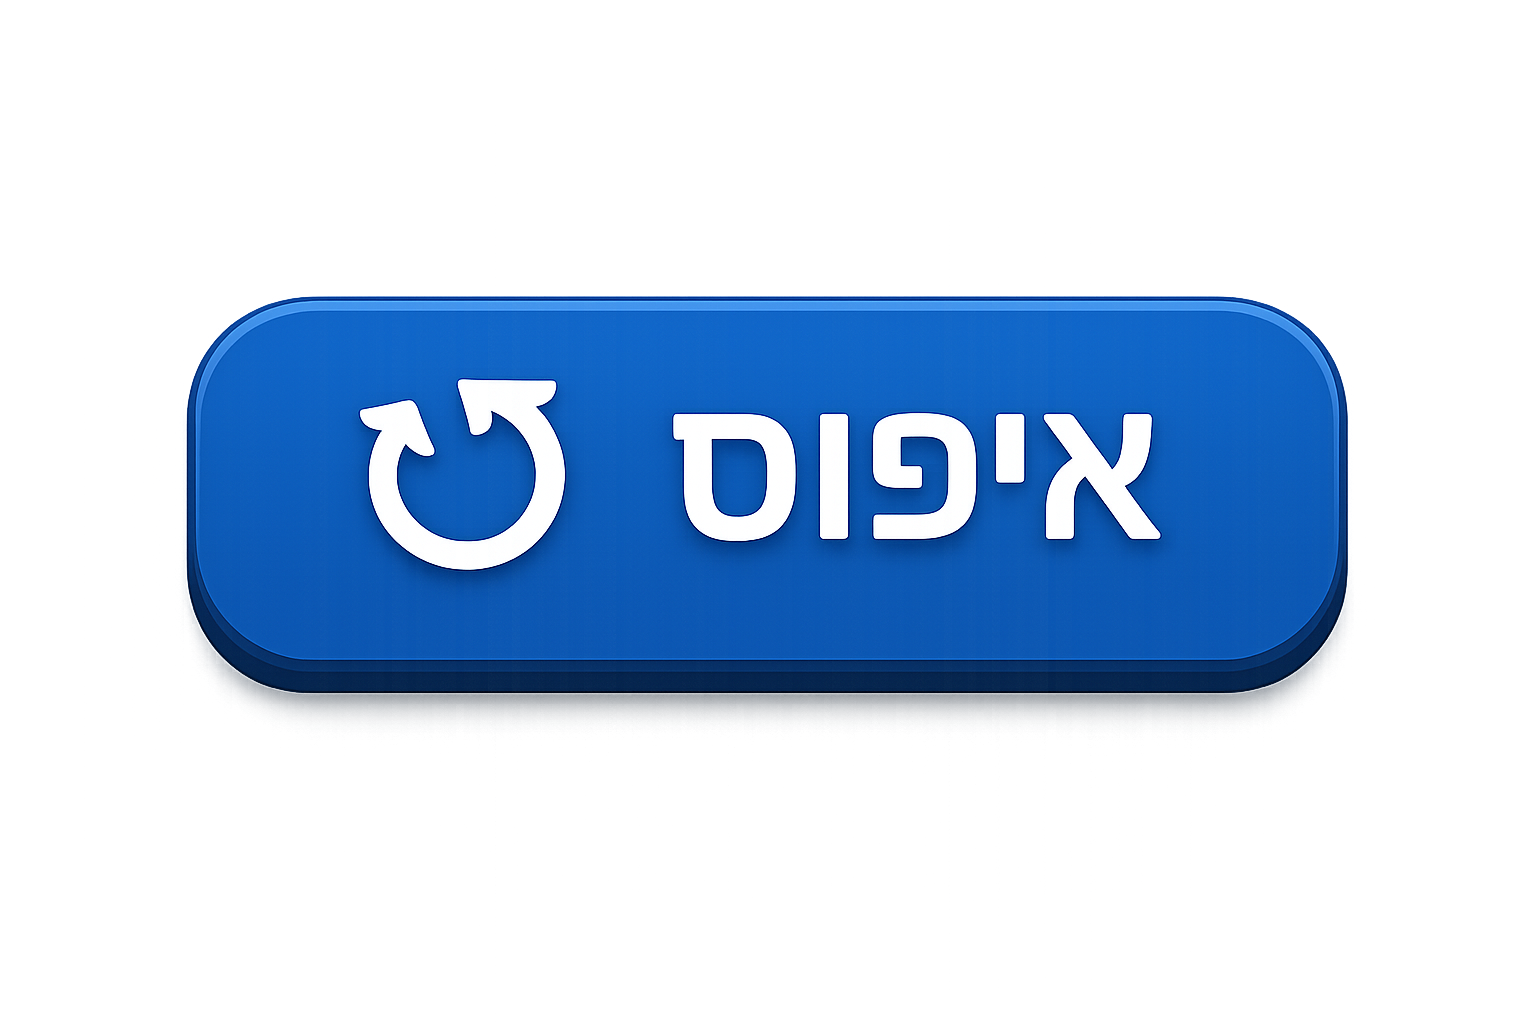
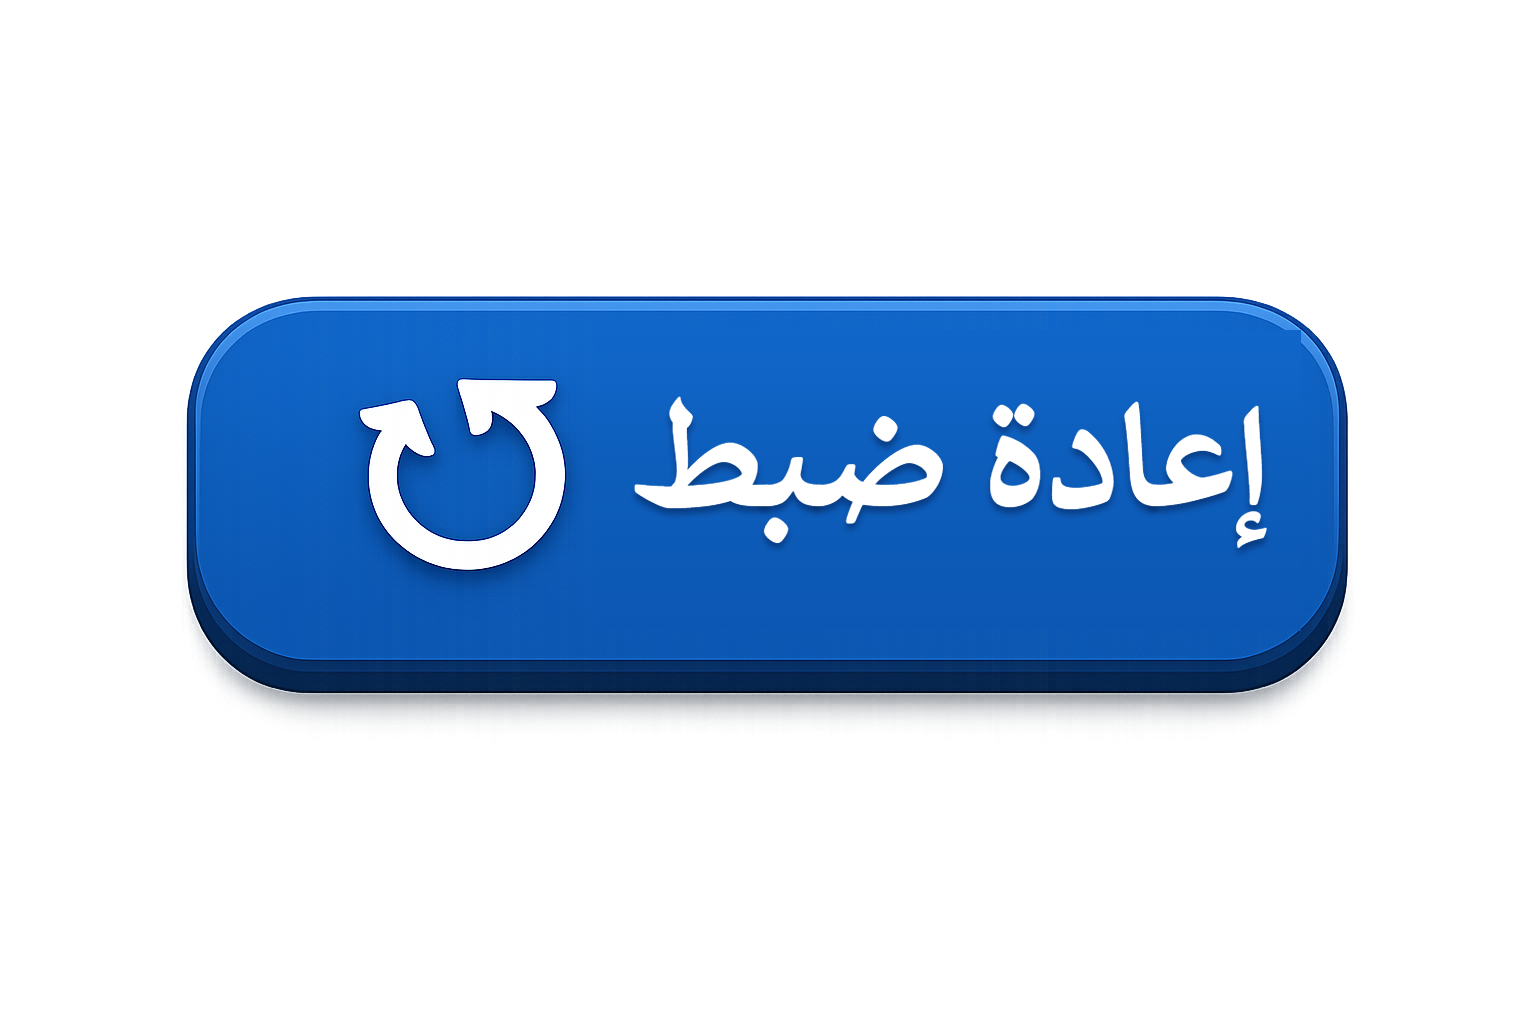
fix(02-05): plane simulation works by touch; s2 says drag to the plane (MOE 06.10)
MOE monday 06.10: "המשקל של הפריטים על המטוס לא עובד, לא ניתן לאפס ולא ניתן לשקול".
Reproduced with real touch events on an emulated iPad: the browser claimed the
gesture for scrolling and fired pointercancel after the first move, so no card
ever reached the plane and the total stayed at 41 (mouse worked).

- .card[data-item] { touch-action: none } so touch drags the card.
- pointercancel ends the drag and sends the card home (it used to hang mid-drag).
- scaleApp() keeps the last scale when the iframe is hidden (0x0 window used to
  set currentScale = 0), re-measures on visibilitychange and on drag start.
- s2 instruction: drag the elements "to the plane", not "to the scale" — only a
  drop on the plane counts (behaviour unchanged by owner decision).
- ?v=20261007 on the 3 sim iframes and on the sim's script/style.

- Reset button: the PNG had Hebrew "איפוס" baked in. Repainted the label area in
  the button's own blue and drew "إعادة ضبط" (Calibri Bold, the sim's Arabic font);
  same size, icon, shadow and transparency. img ?v= added.

New _test/sim-touch.js (puppeteer, real touch): fails on the previous code,
passes now. verify-report 1335/0, statement-flow 74/0 unchanged.

Changed region(s): [[0.4062, 0.375, 0.8438, 0.5625]]

diff --git a/_test/sim-touch.js b/_test/sim-touch.js
@@ -1,0 +1,146 @@
+/* 02-05 plane-mass simulation: drag by touch, inside a screen that starts hidden.
+ *
+ * MOE 06.10 (AR, "המשקל של הפריטים על המטוס לא עובד, לא ניתן לאפס ולא ניתן לשקול"):
+ * on a tablet the browser took the touch for scrolling and cancelled the pointer after
+ * the first move, so no card ever reached the plane. These checks drive real touch
+ * events (CDP Input.dispatchTouchEvent on an emulated iPad), not synthetic pointers.
+ *
+ *   NODE_PATH=/tmp/lomda-test/node_modules node _test/sim-touch.js
+ *
+ * Needs puppeteer-core and a local Chrome (CHROME env var, or the default Windows path).
+ */
+'use strict';
+const fs = require('fs');
+const path = require('path');
+const http = require('http');
+const puppeteer = require('puppeteer-core');
+
+const ROOT = path.resolve(__dirname, '..');
+const COMP = fs.readdirSync(ROOT).find(d => /-02-05$/.test(d));
+const SIM = path.join(ROOT, COMP, 'plane-mass-simulation');
+const CHROME = process.env.CHROME || 'C:/Program Files/Google/Chrome/Application/chrome.exe';
+
+let pass = 0, fail = 0;
+function ok(cond, msg) { if (cond) { pass++; console.log('  ✓ ' + msg); } else { fail++; console.log('  ✗ ' + msg); } }
+
+// ── static checks ──
+const compHtml = fs.readFileSync(path.join(ROOT, COMP, 'index.html'), 'utf8');
+const simHtml = fs.readFileSync(path.join(SIM, 'index.html'), 'utf8');
+const css = fs.readFileSync(path.join(SIM, 'style.css'), 'utf8');
+const AR = /<html[^>]*lang="ar"/.test(simHtml);
+console.log('static (' + (AR ? 'ar' : 'he') + ')');
+ok(!/אל המאזניים|إلى الميزان/.test(compHtml), 's2 instruction no longer says drag "to the scale" (drops count on the plane only)');
+ok(AR ? /سحب العناصر الملائمة إلى الطائرة/.test(compHtml) : /גרירת האלמנטים המתאימים אל המטוס/.test(compHtml), 's2 instruction says drag "to the plane"');
+const iframes = compHtml.match(/<iframe[^>]*plane-mass-simulation[^>]*>/g) || [];
+ok(iframes.length === 3 && iframes.every(s => /index\.html\?v=\d+/.test(s)), 'all 3 sim iframes carry ?v=');
+ok(/script\.js\?v=\d+/.test(simHtml) && /style\.css\?v=\d+/.test(simHtml), 'sim script/style carry ?v=');
+ok(/\.card\[data-item\][^{]*\{[^}]*touch-action:\s*none/.test(css), '.card has touch-action: none');
+if (AR) {
+  // Hebrew "איפוס" was baked into the PNG; the Arabic copy must not be the Hebrew bytes.
+  const HE_MD5 = '61abe55dec3a3d6f32929553b13a71d1';
+  const md5 = require('crypto').createHash('md5').update(fs.readFileSync(path.join(SIM, 'assets/images/restart-button.png'))).digest('hex');
+  ok(md5 !== HE_MD5, 'AR reset button image is not the Hebrew one (' + md5 + ')');
+}
+
+// ── browser checks ──
+const TYPES = { '.html': 'text/html', '.js': 'text/javascript', '.css': 'text/css', '.png': 'image/png', '.ttf': 'font/ttf', '.woff2': 'font/woff2', '.json': 'application/json', '.mp4': 'video/mp4', '.svg': 'image/svg+xml' };
+const server = http.createServer((req, res) => {
+  const u = decodeURIComponent(req.url.split('?')[0]);
+  if (u === '/__host.html') {
+    // the component's pattern: the sim iframe sits in a screen that starts display:none
+    res.writeHead(200, { 'Content-Type': 'text/html' });
+    return res.end(`<!doctype html><body style="margin:0"><div id="scr" style="display:none;width:700px;height:900px">
+      <iframe id="f" src="/${COMP}/plane-mass-simulation/index.html" style="width:100%;height:100%;border:0"></iframe></div></body>`);
+  }
+  const f = path.join(ROOT, u);
+  if (!f.startsWith(ROOT) || !fs.existsSync(f) || fs.statSync(f).isDirectory()) { res.writeHead(404); return res.end(); }
+  res.writeHead(200, { 'Content-Type': TYPES[path.extname(f)] || 'application/octet-stream' });
+  fs.createReadStream(f).pipe(res);
+});
+
+const sleep = ms => new Promise(r => setTimeout(r, ms));
+
+async function touchDrag(page, frame, item, opts = {}) {
+  // geometry in the top page's coordinates (frame offset added when in an iframe)
+  const g = await frame.evaluate(item => {
+    const c = document.querySelector('.card[data-item="' + item + '"]').getBoundingClientRect();
+    const p = document.querySelector('.plane-image').getBoundingClientRect();
+    return { sx: c.left + c.width / 2, sy: c.top + c.height / 2, tx: p.left + p.width / 2, ty: p.top + p.height / 2 };
+  }, item);
+  let ox = 0, oy = 0;
+  if (frame !== page.mainFrame()) {
+    const r = await page.evaluate(() => { const b = document.getElementById('f').getBoundingClientRect(); return { x: b.left, y: b.top }; });
+    ox = r.x; oy = r.y;
+  }
+  const cdp = await page.target().createCDPSession();
+  const t = (type, x, y) => cdp.send('Input.dispatchTouchEvent', { type, touchPoints: type === 'touchEnd' || type === 'touchCancel' ? [] : [{ x: x + ox, y: y + oy }] });
+  await t('touchStart', g.sx, g.sy);
+  const steps = 12;
+  for (let i = 1; i <= steps; i++) {
+    await t('touchMove', g.sx + (g.tx - g.sx) * i / steps, g.sy + (g.ty - g.sy) * i / steps);
+    await sleep(25);
+  }
+  await t(opts.cancel ? 'touchCancel' : 'touchEnd', g.tx, g.ty);
+  await sleep(500);
+  await cdp.detach();
+}
+
+const read = frame => frame.evaluate(() => ({
+  state: Object.assign({}, state),
+  weight: document.getElementById('weight-value').textContent.trim(),
+  scale: currentScale,
+  styles: [...document.querySelectorAll('.card[data-item]')].map(c => c.style.transform || ''),
+}));
+
+(async () => {
+  await new Promise(r => server.listen(0, '127.0.0.1', r));
+  const base = 'http://127.0.0.1:' + server.address().port;
+  const browser = await puppeteer.launch({ executablePath: CHROME, headless: 'new' });
+  const IPAD = { viewport: { width: 820, height: 1180, deviceScaleFactor: 2, isMobile: true, hasTouch: true },
+    userAgent: 'Mozilla/5.0 (iPad; CPU OS 17_0 like Mac OS X) AppleWebKit/605.1.15 (KHTML, like Gecko) Version/17.0 Mobile/15E148 Safari/604.1' };
+  try {
+    console.log('touch, standalone sim (emulated iPad)');
+    let page = await browser.newPage();
+    await page.emulate(IPAD);
+    await page.goto(base + '/' + COMP + '/plane-mass-simulation/index.html', { waitUntil: 'networkidle0' });
+    let f = page.mainFrame();
+    await touchDrag(page, f, 'luggage');
+    let s = await read(f);
+    ok(s.state.luggage === true && /^47\b/.test(s.weight), 'touch drag of luggage onto the plane loads it (41 -> 47): ' + s.weight);
+    await touchDrag(page, f, 'passengers');
+    s = await read(f);
+    ok(s.state.passengers === true && /^59\b/.test(s.weight), 'second touch drag (passengers) adds up (-> 59): ' + s.weight);
+    await f.evaluate(() => document.getElementById('reset-btn').click());
+    s = await read(f);
+    ok(!s.state.luggage && !s.state.passengers && /^41\b/.test(s.weight), 'reset empties the plane (-> 41)');
+    await touchDrag(page, f, 'fuel', { cancel: true });
+    s = await read(f);
+    ok(!s.state.fuel && /^41\b/.test(s.weight), 'a cancelled touch loads nothing');
+    ok(s.styles.every(t => t === '' || /translate\(0(px)?, 0(px)?\)/.test(t)), 'a cancelled touch sends the card back to its slot');
+    await touchDrag(page, f, 'fuel');
+    s = await read(f);
+    ok(s.state.fuel === true && /^61\b/.test(s.weight), 'after a cancel the same card still drags (fuel -> 61): ' + s.weight);
+    await page.close();
+
+    console.log('touch, sim in a screen that starts hidden (the component\'s layout)');
+    page = await browser.newPage();
+    await page.emulate(IPAD);
+    await page.goto(base + '/__host.html', { waitUntil: 'networkidle0' });
+    f = page.frames().find(x => /plane-mass-simulation/.test(x.url()));
+    s = await read(f);
+    ok(s.scale > 0, 'while hidden the scale never collapses to 0 (' + s.scale + ')');
+    await page.evaluate(() => { document.getElementById('scr').style.display = 'block'; });
+    await sleep(400);
+    s = await read(f);
+    ok(s.scale > 0.5 && s.scale < 2, 'shown: the sim re-measures (' + s.scale.toFixed(3) + ')');
+    await touchDrag(page, f, 'luggage');
+    s = await read(f);
+    ok(s.state.luggage === true && /^47\b/.test(s.weight), 'shown: touch drag loads luggage (-> 47): ' + s.weight);
+    await page.close();
+  } finally {
+    await browser.close();
+    server.close();
+  }
+  console.log(`\n=== sim touch: ${pass} passed, ${fail} failed ===`);
+  process.exit(fail ? 1 : 0);
+})().catch(e => { console.error(e); server.close(); process.exit(2); });

diff --git a/methodica-ar-science-mass-measure-02-05/plane-mass-simulation/script.js b/methodica-ar-science-mass-measure-02-05/plane-mass-simulation/script.js
@@ -152,16 +152,38 @@ function returnCardToSlot(card) {
 function makeCardDraggable(card) {
   let originX = 0, originY = 0;
 
+  let dragging = false;
+
   function onPointerDown(e) {
+    if (dragging) return;
     e.preventDefault();
+    /* The iframe may have been hidden (0×0) when it last scaled; measure now
+       so the drag below divides by the real scale. */
+    scaleApp();
+    dragging = true;
     card.setPointerCapture(e.pointerId);
     originX = e.clientX;
     originY = e.clientY;
     card.style.transition = 'none';
     card.style.zIndex     = '1000';
     card.style.position   = 'relative';
-    card.addEventListener('pointermove', onPointerMove);
-    card.addEventListener('pointerup',   onPointerUp);
+    card.addEventListener('pointermove',   onPointerMove);
+    card.addEventListener('pointerup',     onPointerUp);
+    card.addEventListener('pointercancel', onPointerCancel);
+  }
+
+  function endDrag() {
+    dragging = false;
+    card.removeEventListener('pointermove',   onPointerMove);
+    card.removeEventListener('pointerup',     onPointerUp);
+    card.removeEventListener('pointercancel', onPointerCancel);
+  }
+
+  /* The browser took the touch over (scroll/zoom gesture, system UI):
+     no drop, the card just goes home. Without this it stayed mid-drag. */
+  function onPointerCancel() {
+    endDrag();
+    returnCardToSlot(card);
   }
 
   function onPointerMove(e) {
@@ -174,8 +196,7 @@ function makeCardDraggable(card) {
   }
 
   function onPointerUp(e) {
-    card.removeEventListener('pointermove', onPointerMove);
-    card.removeEventListener('pointerup',   onPointerUp);
+    endDrag();
 
     if (isDroppedOnPlane(e.clientX, e.clientY)) {
       const itemName = card.dataset.item;
@@ -222,6 +243,9 @@ function getDesignHeight() {
 function scaleApp() {
   const sim = document.querySelector('.simulation');
   if (!sim) return;
+  /* A hidden iframe (display:none screen) reports a 0×0 window: keep the last
+     scale rather than collapsing to 0 — the resize on show re-measures. */
+  if (!window.innerWidth || !window.innerHeight) return;
   const designHeight = getDesignHeight();
   currentScale = Math.min(window.innerWidth / DESIGN_WIDTH, window.innerHeight / designHeight);
   const left = (window.innerWidth - DESIGN_WIDTH * currentScale) / 2;
@@ -232,6 +256,7 @@ function scaleApp() {
 }
 
 window.addEventListener('resize', scaleApp);
+document.addEventListener('visibilitychange', scaleApp);
 scaleApp();
 
 /* ── Init ───────────────────────────────────────────────── */

diff --git a/methodica-ar-science-mass-measure-02-05/index.html b/methodica-ar-science-mass-measure-02-05/index.html
@@ -98,7 +98,7 @@
 
     <!-- יישומון סימולציית מסת המטוס -->
     <div class="s4-sim-placeholder">
-      <iframe class="sim-iframe" src="plane-mass-simulation/index.html" title="محاكاة كتلة الطائرة" scrolling="no"></iframe>
+      <iframe class="sim-iframe" src="plane-mass-simulation/index.html?v=20261007" title="محاكاة كتلة الطائرة" scrolling="no"></iframe>
     </div>
 
     <div class="s4-text-col">
@@ -140,12 +140,12 @@
 
     <!-- יישומון סימולציית מסת המטוס -->
     <div class="dq-sim-placeholder">
-      <iframe class="sim-iframe" src="plane-mass-simulation/index.html" title="محاكاة كتلة الطائرة" scrolling="no"></iframe>
+      <iframe class="sim-iframe" src="plane-mass-simulation/index.html?v=20261007" title="محاكاة كتلة الطائرة" scrolling="no"></iframe>
     </div>
 
     <div class="dq-question-panel" id="dqA-question-panel">
       <p class="tf-qtitle">قسم أ</p>
-      <p class="dq-instruction-bold">أكملوا النص من خلال سحب العناصر الملائمة إلى الميزان،
+      <p class="dq-instruction-bold">أكملوا النص من خلال سحب العناصر الملائمة إلى الطائرة،
         <br/>
         واختيار الكلمات الصحيحة من مخزن الكلمات.</p>
       <p class="dq-instruction">انتبهوا: الكتلة الظاهرة على الميزان هي كتلة الطائرة وهي فارغة.</p>
@@ -216,7 +216,7 @@
 
     <!-- יישומון סימולציית מסת המטוס -->
     <div class="dq-sim-placeholder">
-      <iframe class="sim-iframe" src="plane-mass-simulation/index.html" title="محاكاة كتلة الطائرة" scrolling="no"></iframe>
+      <iframe class="sim-iframe" src="plane-mass-simulation/index.html?v=20261007" title="محاكاة كتلة الطائرة" scrolling="no"></iframe>
     </div>
 
     <div class="dq-question-panel" id="dqB-question-panel">

diff --git a/methodica-ar-science-mass-measure-02-05/plane-mass-simulation/index.html b/methodica-ar-science-mass-measure-02-05/plane-mass-simulation/index.html
@@ -4,7 +4,7 @@
   <meta charset="UTF-8" />
   <meta name="viewport" content="width=device-width, initial-scale=1.0" />
   <title>محاكاة كتلة الطائرة</title>
-  <link rel="stylesheet" href="style.css?v=1" />
+  <link rel="stylesheet" href="style.css?v=20261007" />
 </head>
 <body>
 
@@ -71,7 +71,7 @@
       <!-- Reset button: inside the scene, matches Figma position -->
       <div class="reset-area">
         <button class="reset-btn" id="reset-btn">
-          <img src="assets/images/restart-button.png" alt="إعادة ضبط" />
+          <img src="assets/images/restart-button.png?v=20261007" alt="إعادة ضبط" />
         </button>
       </div>
 
@@ -79,6 +79,6 @@
 
   </div><!-- /.simulation -->
 
-  <script src="script.js"></script>
+  <script src="script.js?v=20261007"></script>
 </body>
 </html>

diff --git a/methodica-ar-science-mass-measure-02-05/plane-mass-simulation/style.css b/methodica-ar-science-mass-measure-02-05/plane-mass-simulation/style.css
@@ -326,6 +326,12 @@ body {
   Placed below the cards section (cards end at ~54% of scene).
   Centered horizontally under the cards row.
 */
+/* Touch drags the card: without this the browser claims the gesture for
+   scrolling and cancels the pointer after the first move (tablets). */
+.card[data-item] {
+  touch-action: none;
+}
+
 .reset-area {
   /* top computed from cards-section's actual rendered bottom edge
      (header + row of 3 cards, at fixed px sizes) plus a ~3% gap — not

diff --git a/_test/README.md b/_test/README.md
@@ -55,6 +55,21 @@ NODE_PATH=/tmp/lomda-test/node_modules node _test/verify-report.js
 > שהותקנה קודם באותה תיקייה; מלכודת שתועדה בסעיף 15 של
 > `סיכום-תהליך-בניית-הלומדה.md`. `node_modules/` מסונן ב-`.gitignore`.
 
+## `sim-touch.js` — סימולציית המטוס ב-02-05, במגע (2026-10-07)
+
+דפדפן אמיתי (puppeteer-core + Chrome מקומי, `CHROME=` לנתיב אחר), iPad מדומה ואירועי מגע
+אמיתיים (CDP `Input.dispatchTouchEvent`), לא pointer סינתטי. נולד מ-monday של 06.10 ("לא ניתן
+לשקול ולא ניתן לאפס"): בטאבלט הדפדפן לקח את המגע לגלילה וביטל את ה-pointer אחרי התזוזה
+הראשונה, והמשקל נשאר 41. בודק: גרירה במגע לטעינה ולהוספה, איפוס, מגע שבוטל (הכרטיס חוזר,
+כלום לא נטען), סימולציה בתוך מסך שמתחיל מוסתר (הסקאלה לא קורסת ל-0), ?v= על ה-iframes,
+`touch-action: none`, ההוראה של מסך 2 ("אל המטוס"), ובערבית שתמונת כפתור האיפוס אינה העברית.
+
+```bash
+NODE_PATH=/tmp/lomda-test/node_modules node _test/sim-touch.js
+```
+
+(`/tmp/lomda-test` צריך גם `puppeteer-core`.)
+
 ## שני דברים שה-jsdom לא יכול לכסות
 
 1. **מראה.** ההרנס בודק קלאסים, טקסט ודגלי `disabled` — לא פיקסלים. אימות
